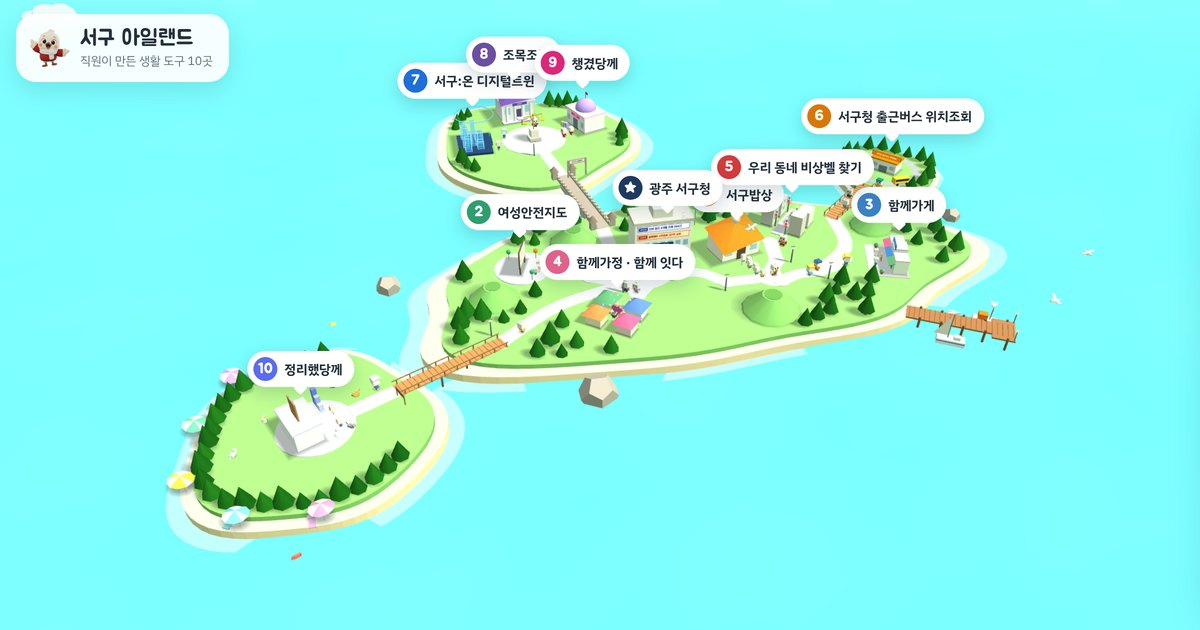
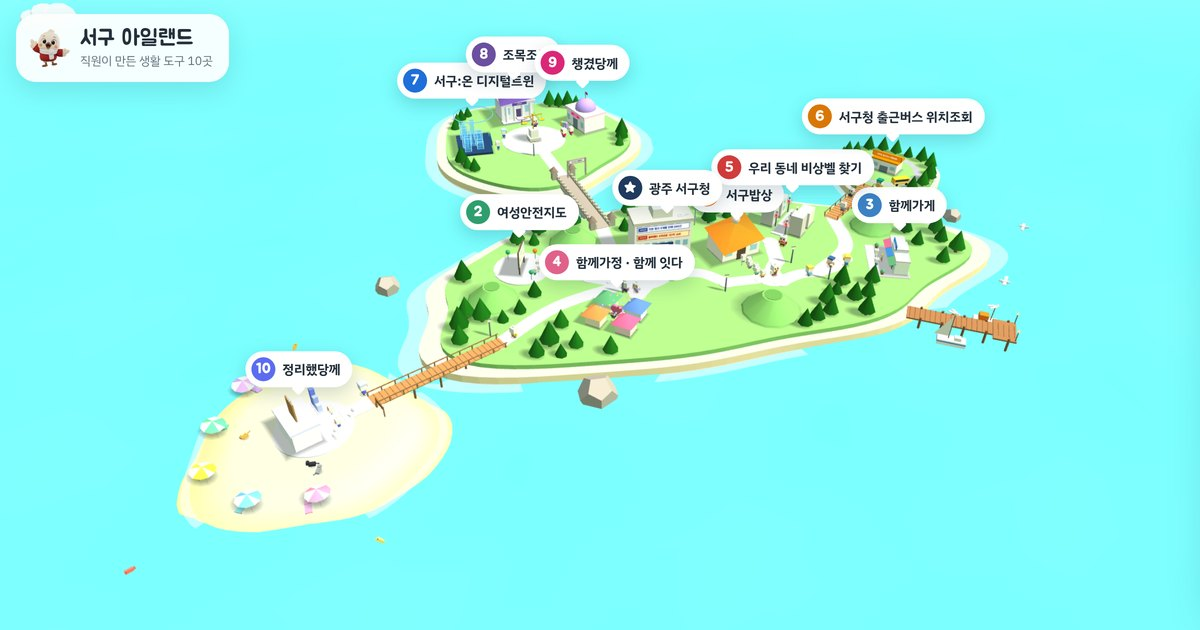
Island: 다비치 아일랜드 becomes a treeless sand beach that slopes gently into the sea (walk into the shallows, then swim), bridge now lands on the flat sand, parasols moved onto the beach; sky-view A/D keys no longer reversed
Claude-Session: https://claude.ai/code/session_01Rn2FnTmWsitNSVHCMP1upV

diff --git a/index.html b/index.html
@@ -347,14 +347,17 @@ function Rk(I,a){return I.r*(1+.05*Math.sin(3*a+I.s[0])+.03*Math.sin(5*a+I.s[1])
 function rhoI(I,x,z){const dx=x-I.x,dz=z-I.z;return Math.hypot(dx,dz)/Rk(I,Math.atan2(dz,dx));}
 function marchBridge(I,T){const dx=T.x-I.x,dz=T.z-I.z,L=Math.hypot(dx,dz),ux=dx/L,uz=dz/L;let s=0;while(rhoI(I,I.x+ux*s,I.z+uz*s)<.82)s+=.05;const B={x:I.x+ux*s,z:I.z+uz*s};while(rhoAt(I.x+ux*s,I.z+uz*s)>.8)s+=.05;return {A:{x:I.x+ux*s,z:I.z+uz*s},B,ry:Math.atan2(ux,uz)};}
 const JB=marchBridge(JC,{x:-9,z:-8}),JRY=JB.ry;// 저스티스 아일랜드의 앞쪽(다리 쪽) 방향
-const DB=marchBridge(DC,{x:-22,z:8});
+/* 다비치 아일랜드는 절벽 없는 모래 해수욕장: 가운데(0.6R까지) 평평하고, 바다 쪽으로 완만하게 내려가 물에 잠김 */
+function beachH(ri){if(ri<=.6)return .9;if(ri<=1.02){const u=(ri-.6)/.42,s=u*u*(3-2*u);return .9-s*1.65;}const u=Math.min(1,(ri-1.02)/.45),s=u*u*(3-2*u);return -.75+(SEABED-.1+.75)*s;}
+function marchBridgeR(I,T,thr){const dx=T.x-I.x,dz=T.z-I.z,L=Math.hypot(dx,dz),ux=dx/L,uz=dz/L;let s=0;while(rhoI(I,I.x+ux*s,I.z+uz*s)<thr)s+=.05;const B={x:I.x+ux*s,z:I.z+uz*s};while(rhoAt(I.x+ux*s,I.z+uz*s)>.8)s+=.05;return {A:{x:I.x+ux*s,z:I.z+uz*s},B,ry:Math.atan2(ux,uz)};}
+const DB=marchBridgeR(DC,{x:-22,z:8},.6);// 다리는 평평한 모래 위에서 시작
 const BRIDGES=[{A:{x:20.4,z:-8.3},B:{x:28.1,z:-14.8},stone:false},{A:JB.A,B:JB.B,stone:true},{A:DB.A,B:DB.B,stone:false}];
 function jl(lx,lz,lry,reach){const c=Math.cos(JRY),s=Math.sin(JRY);return [JC.x+lx*c+lz*s,JC.z-lx*s+lz*c,lry+JRY,reach,1.3];}// 섬 기준 좌표 → 지도 좌표
 /* ---------- 배치: 십자 모양 대신 섬 곳곳에 흩어진 건물과 구불구불한 길 ---------- */
 const HX=-4,HZ=-3;// 광주 서구청(가운데에서 살짝 서쪽)
 // x, z, 건물 앞쪽 방향, 앞쪽 길이 닿는 거리
 const LAYOUT={bapsang:[5,-3,.25,6.6],safety:[-21,-4,1.25,5.4],store:[23,3,-1.9,5.4],family:[-12,8,2.46,5.4],bell:[14,-8,-.75,5.4],bus:[33,-19,-.869,5.8],
-  seoguon:jl(-8.6,-1.6,1.39,4.4),jomok:jl(0,-8.6,0,4.4),chaeng:jl(8.6,-1.6,-1.39,4.4),jeongri:[DC.x,DC.z,DB.ry,7.4]};
+  seoguon:jl(-8.6,-1.6,1.39,4.4),jomok:jl(0,-8.6,0,4.4),chaeng:jl(8.6,-1.6,-1.39,4.4),jeongri:[DC.x,DC.z,DB.ry,6.2]};
 const ZONES=PROJECTS.map(p=>{const [x,z,ry,reach,sc]=LAYOUT[p.key],fx=Math.sin(ry),fz=Math.cos(ry);return {x,z,ry,fx,fz,ex:x+fx*reach,ez:z+fz*reach,sc:sc||1,p};});
 const PN={dA:[DB.A.x,DB.A.z],br0:[20.4,-8.3],jA:[JB.A.x,JB.A.z],jB:[JB.B.x,JB.B.z],jP:[JC.x+Math.sin(JRY)*4.6,JC.z+Math.cos(JRY)*4.6],hub:[HX,HZ+3.6],w1:[-9.5,1.4],w2:[-13.4,-.6],e1:[2.2,3.4],e2:[8.6,4.4],e3:[13.6,3.4],b1:[9.6,.2]};
 ZONES.forEach(z=>PN[z.p.key]=[z.ex,z.ez]);
@@ -384,7 +387,16 @@ LAMP_AT.forEach(([x,z])=>{const l=new THREE.Group();l.position.set(x,3.02,z);sce
 /* ---------- 작은 섬 땅 + 다리(정미니: 나무다리, 저스티스: 중세 돌다리) ---------- */
 function blobShape(I,f){const s=new THREE.Shape();for(let i=0;i<=72;i++){const a=i/72*Math.PI*2,r=Rk(I,a)*f,x=I.x+Math.cos(a)*r,z=I.z+Math.sin(a)*r;i?s.lineTo(x,-z):s.moveTo(x,-z);}return s;}
 function slabS(shape,depth,top,mat){const g=new THREE.ExtrudeGeometry(shape,{depth,bevelEnabled:false,curveSegments:1});g.rotateX(-Math.PI/2);const m=new THREE.Mesh(g,mat);m.position.y=top-depth;scene.add(m);return m;}
-ISLES.forEach(I=>{slabS(blobShape(I,1.12),.02,-.55,foam.material);slabS(blobShape(I,1),6.1,.35,M(0xf1dfae));slabS(blobShape(I,.9),1.2,.9,M(0x84c46a));});
+ISLES.forEach(I=>{if(I===DC)return;slabS(blobShape(I,1.12),.02,-.55,foam.material);slabS(blobShape(I,1),6.1,.35,M(0xf1dfae));slabS(blobShape(I,.9),1.2,.9,M(0x84c46a));});
+{const RS=[0,.3,.5,.6,.66,.72,.78,.84,.9,.96,1.02,1.1,1.2,1.32,1.47],NA=72,pos=[],col=[],idx=[],dry=new THREE.Color(0xf1dca6),wet=new THREE.Color(0xd8bd84),deep=new THREE.Color(0xc4ab7a),cc=new THREE.Color();
+  RS.forEach(ri=>{const h=beachH(ri);for(let k=0;k<NA;k++){const a=k/NA*Math.PI*2,R=Rk(DC,a)*ri;pos.push(DC.x+Math.cos(a)*R,h,DC.z+Math.sin(a)*R);
+    if(h>.2)cc.copy(dry);else if(h>-.9)cc.copy(dry).lerp(wet,(.2-h)/1.1);else cc.copy(wet).lerp(deep,Math.min(1,(-.9-h)/2));col.push(cc.r,cc.g,cc.b);}});
+  for(let i=0;i<RS.length-1;i++)for(let k=0;k<NA;k++){const a=i*NA+k,b=i*NA+(k+1)%NA,c=a+NA,d=b+NA;idx.push(a,b,c,b,d,c);}
+  const g=new THREE.BufferGeometry();g.setAttribute("position",new THREE.Float32BufferAttribute(pos,3));g.setAttribute("color",new THREE.Float32BufferAttribute(col,3));g.setIndex(idx);g.computeVertexNormals();
+  scene.add(new THREE.Mesh(g,new THREE.MeshLambertMaterial({vertexColors:true})));
+  // 물가 하얀 물결 띠
+  const sh=new THREE.Shape(),hole=new THREE.Path();for(let k=0;k<=72;k++){const a=k/72*Math.PI*2,R1=Rk(DC,a)*1.0,R0=Rk(DC,a)*.925;k?sh.lineTo(DC.x+Math.cos(a)*R1,-(DC.z+Math.sin(a)*R1)):sh.moveTo(DC.x+Math.cos(a)*R1,-(DC.z+Math.sin(a)*R1));k?hole.lineTo(DC.x+Math.cos(a)*R0,-(DC.z+Math.sin(a)*R0)):hole.moveTo(DC.x+Math.cos(a)*R0,-(DC.z+Math.sin(a)*R0));}
+  sh.holes.push(hole);const fg=new THREE.ShapeGeometry(sh,1);fg.rotateX(-Math.PI/2);const fm=new THREE.Mesh(fg,foam.material);fm.position.y=SEA_Y+.03;scene.add(fm);}
 // 저스티스 아일랜드 가운데 돌 광장
 cyl(4.8,4.8,.1,0xd8d2c6,JC.x,.9,JC.z,null,28);
 function bridgeDist(Br,x,z){const ax=Br.B.x-Br.A.x,az=Br.B.z-Br.A.z,L2=ax*ax+az*az,t=clamp(((x-Br.A.x)*ax+(z-Br.A.z)*az)/L2,0,1),px=Br.A.x+ax*t,pz=Br.A.z+az*t;return {d:Math.hypot(x-px,z-pz),t,px,pz};}
@@ -618,7 +630,7 @@ function zoneChaeng(g){
 }
 /* ---------- zone 10: 정리했당께 (다비치 아일랜드: 설문 집계 사무소 + 지붕 위 큰 체크리스트 + 막대그래프) ---------- */
 function zoneJeongri(g){
-  cyl(3.8,3.8,.1,0xeceafc,0,.06,.3,g,24);box(1.8,.06,5.6,0xe9dcc0,0,.04,6.6,g);// 다리에서 건물까지 길
+  cyl(3.8,3.8,.1,0xeceafc,0,.06,.3,g,24);box(1.8,.06,4,0xe9dcc0,0,.04,5.1,g);// 다리에서 건물까지 길
   box(4.2,2.2,2.6,0xf6f5ff,0,1.1,-1,g);box(4.5,.2,2.9,0xd9dcfb,0,2.3,-1,g);
   box(.9,1.3,.06,0x4f5aa8,0,.65,.31,g);[-1.45,1.45].forEach(x=>win(g,x,1.15,.31,.75,.6));
   box(2.05,.46,.08,0x4453c9,0,1.78,.31,g);signPlate(g,"정리했당께","#5b6cf0",1.9,1.78,.36);
@@ -632,7 +644,7 @@ function zoneJeongri(g){
   [[-2.5,1.5],[-1.85,1.9]].forEach(([x,z],k)=>{for(let i=0;i<4-k;i++){const s=box(.66,.1,.5,i%2?0xfffdf5:0xffffff,x,.16+i*.1,z,g);s.rotation.y=(i%2?.18:-.1)+k*.3;}});
   // 섬 입구 표지판: 다비치 아일랜드
   const dTex=canvasTex(384,96,(x,w,h)=>{x.fillStyle="#eef0fd";x.fillRect(0,0,w,h);x.strokeStyle="#5b6cf0";x.lineWidth=8;x.strokeRect(4,4,w-8,h-8);x.fillStyle="#3f4bb8";x.font='bold 44px "Jua","IBM Plex Sans KR",sans-serif';x.textAlign="center";x.textBaseline="middle";x.fillText("다비치 아일랜드",w/2,h/2+3);});
-  [-2.32,-.68].forEach(x=>box(.09,1.27,.09,0x8a6440,x,.635,8.6,g));box(1.5,.42,.08,0x8a6440,-1.5,1.05,8.6,g);const ds=new THREE.Mesh(new THREE.PlaneGeometry(1.4,.35),new THREE.MeshBasicMaterial({map:dTex}));ds.position.set(-1.5,1.05,8.65);g.add(ds);
+  [-2.62,-.98].forEach(x=>box(.09,1.27,.09,0x8a6440,x,.635,6.4,g));box(1.5,.42,.08,0x8a6440,-1.8,1.05,6.4,g);const ds=new THREE.Mesh(new THREE.PlaneGeometry(1.4,.35),new THREE.MeshBasicMaterial({map:dTex}));ds.position.set(-1.8,1.05,6.45);g.add(ds);
   person(-1.2,2.3,g,0x5b6cf0);person(.9,2.5,g,0xffffff);
 }
 const glowTex=canvasTex(64,64,(x,w,h)=>{const r=x.createRadialGradient(32,32,2,32,32,32);r.addColorStop(0,"rgba(255,255,255,1)");r.addColorStop(1,"rgba(255,255,255,0)");x.fillStyle=r;x.fillRect(0,0,w,h);});
@@ -659,7 +671,7 @@ function clearSpot(x,z){if(rhoAt(x,z)>.88)return false;
 const TREE=[];
 for(let i=0;i<900&&TREE.length<110;i++){const a=rnd()*Math.PI*2,f=.5+Math.sqrt(rnd())*.38,k=coastK(a)*f,x=Math.cos(a)*IA*k,z=Math.sin(a)*IB*k;
   if(!clearSpot(x,z)||TREE.some(([tx,tz])=>Math.hypot(tx-x,tz-z)<1.8))continue;TREE.push([x,z,.75+rnd()*.5]);}
-ISLES.forEach((I,ii)=>{const Br=BRIDGES[ii],front=Math.atan2(Br.A.z-I.z,Br.A.x-I.x),skip=ZONES.filter(z=>rhoI(I,z.x,z.z)<1&&Math.hypot(z.x-I.x,z.z-I.z)>2).map(z=>Math.atan2(z.z-I.z,z.x-I.x)),cnt=[14,36,26][ii];
+ISLES.forEach((I,ii)=>{const Br=BRIDGES[ii],front=Math.atan2(Br.A.z-I.z,Br.A.x-I.x),skip=ZONES.filter(z=>rhoI(I,z.x,z.z)<1&&Math.hypot(z.x-I.x,z.z-I.z)>2).map(z=>Math.atan2(z.z-I.z,z.x-I.x)),cnt=[14,36,0][ii];
   for(let k=0;k<cnt;k++){const a=front+1.05+k*(Math.PI*2-2.1)/(cnt-1);if(skip.some(b=>Math.abs(((a-b+Math.PI*3)%(Math.PI*2))-Math.PI)<.42))continue;const r=Rk(I,a)*.82;if(ii===1&&Math.hypot(I.x+Math.cos(a)*r-JC.sign.position.x,I.z+Math.sin(a)*r-JC.sign.position.z)<4)continue;TREE.push([I.x+Math.cos(a)*r,I.z+Math.sin(a)*r,.75+rnd()*.4]);}});// 작은 섬 둘레 나무
 const trunks=new THREE.InstancedMesh(new THREE.CylinderGeometry(0.15,0.2,1,6),M(0x7a5536),TREE.length);
 const leaves=new THREE.InstancedMesh(new THREE.ConeGeometry(0.9,2,7),M(0x4f9a4a),TREE.length);
@@ -724,7 +736,7 @@ function stepDolphins(dt){DOLPH.forEach(d=>{
 
 /* ---------- 걷기 세계: 땅 높이와 부딪힘 ---------- */
 function onPath(x,z){for(const p of PATH_PTS){const dx=x-p.x,dz=z-p.z;if(dx*dx+dz*dz<.81)return true;}return false;}
-function onBridge(x,z){if(rhoAt(x,z)<=.84||ISLES.some(I=>rhoI(I,x,z)<=.84))return false;return BRIDGES.some(Br=>{const b=bridgeDist(Br,x,z);return b.d<1.1&&b.t>.02&&b.t<.98;});}
+function onBridge(x,z){if(rhoAt(x,z)<=.84||ISLES.some(I=>rhoI(I,x,z)<=(I===DC?.58:.84)))return false;return BRIDGES.some(Br=>{const b=bridgeDist(Br,x,z);return b.d<1.1&&b.t>.02&&b.t<.98;});}
 function groundAt(x,z){if(Math.hypot(x-HX,z-HZ)<3.2)return 1.02;if(onBridge(x,z))return 1.01;return onPath(x,z)?.96:.9;}
 function walkable(x,z){if(rhoAt(x,z)<=.86||ISLES.some(I=>rhoI(I,x,z)<=.84))return true;return BRIDGES.some(Br=>{const b=bridgeDist(Br,x,z);return b.t>0&&b.t<1&&b.d<=.75;});}
 scene.updateMatrixWorld(true);
@@ -740,7 +752,7 @@ const LOCAL_OBST={
   seoguon:[[-1.3,-.6,1.3],[1.1,-.6,1.3],[0,1.1,.9],[-1.6,2.4,.3]],
   jomok:[[-1.1,-.6,1.4],[1.1,-.6,1.4],...[-1.5,-.5,.5,1.5].map(x=>[x,1.1,.25]),[0,2.2,.4],[1.3,2.6,.3]],
   chaeng:[[-1.1,-.4,1.4],[1.1,-.4,1.4],[-.95,2,.5],[1.2,2.4,.3]],
-  jeongri:[[-1.1,-1,1.4],[1.1,-1,1.4],[2.45,1.7,.75],[-2.2,1.7,.5],[-1.2,2.3,.3],[.9,2.5,.3],[-2.32,8.6,.15],[-.68,8.6,.15]],
+  jeongri:[[-1.1,-1,1.4],[1.1,-1,1.4],[2.45,1.7,.75],[-2.2,1.7,.5],[-1.2,2.3,.3],[.9,2.5,.3],[-2.62,6.4,.15],[-.98,6.4,.15]],
   bell:[[-2,-1.6,1.1,2.6],[-2,1.2,1.15,3.2],[2,-1,1.15,2.2],[2,1.8,1,2.8],[-.95,-2.6,.2],[.95,-.4,.2],[-.95,1.6,.2],[.95,3,.2],[.2,-1.4,.3]]};
 {const v=new THREE.Vector3();ZONES.forEach(z=>LOCAL_OBST[z.p.key].forEach(([x,y,r,tp])=>{v.set(x,0,y);z.group.localToWorld(v);const rt=r>.9?(tp!==undefined?tp:ROOF_TOP[z.p.key]):0;OBST.push({x:v.x,z:v.z,r:r*z.sc,h:r>.9?4.6*z.sc:0,top:rt?.9+rt*z.sc:0});}));}
 PIER.posts.forEach(q=>OBST.push({x:q.x,z:q.z,r:.16,h:0,top:q.y}));[boat,sail].forEach(b=>OBST.push({x:b.position.x,z:b.position.z,r:1.25,h:0,top:.08,sr:1.1}));
@@ -752,20 +764,20 @@ function collide(p,r,y,fly){y=y||0;
   {const dx=p.x-2,dz=p.z+12,d=Math.hypot(dx,dz),lim=80;if(d>lim){p.x=2+dx/d*lim;p.z=-12+dz/d*lim;}}return;// 바다로도 나갈 수 있음(헤엄·날기), 너무 멀리는 못 감
   if(!walkable(p.x,p.z)){const rh=rhoAt(p.x,p.z),c=[[p.x*.86/rh,p.z*.86/rh]];ISLES.forEach(I=>{const dx=p.x-I.x,dz=p.z-I.z,dd=Math.hypot(dx,dz)||1,rr=Rk(I,Math.atan2(dz,dx))*.84;c.push([I.x+dx/dd*Math.min(dd,rr),I.z+dz/dd*Math.min(dd,rr)]);});BRIDGES.forEach(Br=>{const b=bridgeDist(Br,p.x,p.z);if(b.t>0&&b.t<1){const k=.75/(b.d||1);c.push([b.px+(p.x-b.px)*k,b.pz+(p.z-b.pz)*k]);}});let best=c[0],bd=1e9;c.forEach(q=>{const d=Math.hypot(q[0]-p.x,q[1]-p.z);if(d<bd){bd=d;best=q;}});p.x=best[0];p.z=best[1];}
 }
-function landY(x,z){if(onBridge(x,z))return 1.01;if(onPier(x,z))return PIER.top;const r=rhoAt(x,z);if(r<=.93)return groundAt(x,z);for(const I of ISLES){const ri=rhoI(I,x,z);if(ri<=.9)return groundAt(x,z);if(ri<=1)return .35;}return r<=1?.35:null;}// 바다면 null
+function landY(x,z){if(onBridge(x,z))return 1.01;if(onPier(x,z))return PIER.top;const r=rhoAt(x,z);if(r<=.93)return groundAt(x,z);for(const I of ISLES){const ri=rhoI(I,x,z);if(I===DC){if(ri<=.6)return groundAt(x,z);if(ri<1.47){const h=beachH(ri);return h>SEA_Y-.5?h:null;}continue;}if(ri<=.9)return groundAt(x,z);if(ri<=1)return .35;}return r<=1?.35:null;}// 다비치는 얕은 물까지 걸어 들어갈 수 있음// 바다면 null
 function roofAt(x,z,y){let b=-1e9;for(const o of OBST){if(!o.top||y<o.top-.45||o.top<=b)continue;const sr=o.sr||o.r*.9;if((x-o.x)*(x-o.x)+(z-o.z)*(z-o.z)<sr*sr)b=o.top;}for(const q of RECTS)if(q.top&&y>=q.top-.45&&q.top>b&&x>q.x0&&x<q.x1&&z>q.z0&&z<q.z1)b=q.top;return b;}
 function camBlocked(x,y,z){for(const b of RECTS)if(y<b.h&&x>b.x0-.3&&x<b.x1+.3&&z>b.z0-.3&&z<b.z1+.3)return true;for(const o of OBST)if(y<o.h&&Math.hypot(x-o.x,z-o.z)<o.r+.3)return true;return false;}
 /* ---------- 다비치 아일랜드 해변: 파스텔 줄무늬 파라솔 + 선베드 ---------- */
 const PARASOL=[];
 {const front=Math.atan2(DB.B.z-DC.z,DB.B.x-DC.x),cols=[[0xff8fb3,0xfff7fa],[0x6fbaf5,0xf6fbff],[0xffcc3d,0xfffbea],[0x5fcf92,0xf3fff8],[0xa98bf5,0xfaf7ff]];
   const pole=[],top=[],beds=[];
-  [-1.25,-.62,0,.62,1.25].forEach((da,k)=>{const a=front+Math.PI+da,R=Rk(DC,a)*.955,x=DC.x+Math.cos(a)*R,z=DC.z+Math.sin(a)*R,tx=-Math.sin(a),tz=Math.cos(a);
-    PARASOL.push({x,z,a});pole.push([B,0xf4f1ea,T(x,.35+.9,z,.07,1.8,.07)]);
+  [-1.25,-.62,0,.62,1.25].forEach((da,k)=>{const a=front+Math.PI+da,R=Rk(DC,a)*.79,x=DC.x+Math.cos(a)*R,z=DC.z+Math.sin(a)*R,tx=-Math.sin(a),tz=Math.cos(a);
+    const by=beachH(.79);PARASOL.push({x,z,a});pole.push([B,0xf4f1ea,T(x,by+.9,z,.07,1.8,.07)]);
     const cone=new THREE.ConeGeometry(1.15,.5,10).toNonIndexed(),c=cols[k],n=cone.attributes.position.count,col=new Float32Array(n*3),ca=new THREE.Color(c[0]),cb=new THREE.Color(c[1]);
     for(let i=0;i<n;i++){const tri=(i/3|0),cc=(Math.floor(Math.atan2(cone.attributes.position.getZ(tri*3)+cone.attributes.position.getZ(tri*3+1)+cone.attributes.position.getZ(tri*3+2),cone.attributes.position.getX(tri*3)+cone.attributes.position.getX(tri*3+1)+cone.attributes.position.getX(tri*3+2))/(Math.PI/5)+10)%2)?cb:ca;col[i*3]=cc.r;col[i*3+1]=cc.g;col[i*3+2]=cc.b;}cone.setAttribute("color",new THREE.BufferAttribute(col,3));cone.deleteAttribute("uv");
-    const m=new THREE.Mesh(cone,HMAT);m.position.set(x,.35+1.95,z);m.rotation.z=.12*Math.cos(a);m.rotation.x=-.12*Math.sin(a);scene.add(m);
+    const m=new THREE.Mesh(cone,HMAT);m.position.set(x,by+1.95,z);m.rotation.z=.12*Math.cos(a);m.rotation.x=-.12*Math.sin(a);scene.add(m);
     const bx=x+tx*1.05,bz=z+tz*1.05,yaw=Math.atan2(Math.cos(a),Math.sin(a));// 선베드: 바다를 보고 누움
-    const M4=new THREE.Matrix4().compose(new THREE.Vector3(bx,.35,bz),new THREE.Quaternion().setFromAxisAngle(new THREE.Vector3(0,1,0),yaw),new THREE.Vector3(1,1,1));
+    const M4=new THREE.Matrix4().compose(new THREE.Vector3(bx,by,bz),new THREE.Quaternion().setFromAxisAngle(new THREE.Vector3(0,1,0),yaw),new THREE.Vector3(1,1,1));
     [[0,.22,0,.6,.08,1.3,c[0]],[0,.38,-.5,.6,.08,.42,c[0]],[-.25,.1,.5,.06,.2,.06,0xb08350],[.25,.1,.5,.06,.2,.06,0xb08350],[-.25,.1,-.5,.06,.2,.06,0xb08350],[.25,.1,-.5,.06,.2,.06,0xb08350]].forEach(([lx,ly,lz,w,h,d,cc])=>beds.push([B,cc,M4.clone().multiply(T(lx,ly,lz,w,h,d))]));
     PARASOL[k].bed=[bx,bz];});
   scene.add(new THREE.Mesh(merged(pole),HMAT),new THREE.Mesh(merged(beds),HMAT));}
@@ -848,7 +860,7 @@ function makeCat(L){const g=new THREE.Group(),eye=L.eye||0x2a2a2a,ear=L.ear||L.c
   const bub=new THREE.Sprite(new THREE.SpriteMaterial({map:meowTex,transparent:true,depthWrite:false}));bub.scale.set(.7,.35,1);bub.position.y=1.05;bub.visible=false;g.add(bub);
   const sh=new THREE.Mesh(SHADOW_G,SHADOW_M);sh.rotation.x=-Math.PI/2;sh.position.y=.02;sh.scale.setScalar(.8);g.add(sh);
   scene.add(g);return {g,core,legA,legB,tail,bub};}
-function catSpotOk(x,z){if(rhoI(DC,x,z)>.72)return false;for(const o of OBST)if((x-o.x)*(x-o.x)+(z-o.z)*(z-o.z)<(o.r+.55)*(o.r+.55))return false;return true;}
+function catSpotOk(x,z){if(rhoI(DC,x,z)>.6)return false;for(const o of OBST)if((x-o.x)*(x-o.x)+(z-o.z)*(z-o.z)<(o.r+.55)*(o.r+.55))return false;return true;}
 function catSpot(fx,fz){for(let i=0;i<40;i++){const a=rnd()*Math.PI*2,r=Math.sqrt(rnd())*DC.r*.7,x=DC.x+Math.cos(a)*r,z=DC.z+Math.sin(a)*r;if(!catSpotOk(x,z))continue;
     if(fx!==undefined){let ok=true;for(let k=1;k<6;k++){const u=k/6;if(!catSpotOk(fx+(x-fx)*u,fz+(z-fz)*u)){ok=false;break;}}if(!ok)continue;}return [x,z];}return null;}
 const CATS=CAT_LOOKS.map((L,i)=>{const m=makeCat(L),p=catSpot()||[DC.x+2,DC.z+2];return Object.assign(m,{x:p[0],z:p[1],yaw:rnd()*6,mode:i%2?"sit":"walk",t:2+rnd()*6,ph:rnd()*6,met:false,bubT:0,tx:p[0],tz:p[1]});});
@@ -1100,7 +1112,7 @@ function jumpPress(){if(!walking||talkNpc>=0||!$("guide").hidden)return;
 function land(){P.air=P.fly=false;player.air=player.fly=false;if(P.swim){P.swim=false;setDiver(false);}P.vy=0;player.land=1;jumpLabel();}
 function stepJump(dt){const hold=jumpHeld||keys.Space,fl=floorAt(P.x,P.z,P.y);
   if(P.swim){if(fl!==null){P.y=fl;land();return;}// 해변에 닿으면 물 밖으로
-    P.vy+=((hold?2.4:-.55)-P.vy)*Math.min(1,dt*3);P.y=clamp(P.y+P.vy*dt,SEABED+.05,SEA_Y-.75);return;}
+    P.vy+=((hold?2.4:-.55)-P.vy)*Math.min(1,dt*3);{const ri=rhoI(DC,P.x,P.z),fl=ri<1.47?beachH(ri)+.2:SEABED+.05;P.y=clamp(P.y+P.vy*dt,Math.min(fl,SEA_Y-.75),SEA_Y-.75);}return;}// 해수욕장 바닥 아래로는 안 내려감
   if(P.fly){P.vy+=((hold?4.6:-1.7)-P.vy)*Math.min(1,dt*4);P.y=Math.min(24,P.y+P.vy*dt);if(fl===null){if(P.y<=SEA_Y)enterWater();}else if(P.y<=fl){P.y=fl;land();}return;}
   if(P.air||fl===null){P.air=true;player.air=true;P.vy-=20*dt;P.y+=P.vy*dt;if(fl===null){if(P.y<=SEA_Y)enterWater();}else if(P.y<=fl){P.y=fl;land();}return;}
   if(fl<P.y-.25){P.air=true;player.air=true;P.vy=0;}else P.y=fl;}
@@ -1250,7 +1262,7 @@ function frame(t){
   if(INTRO.on)stepIntro(dt);
   else if(walking){updatePlayer(dt);updateWalkCam(dt);}
   else{const kx=(keys.KeyD||keys.ArrowRight?1:0)-(keys.KeyA||keys.ArrowLeft?1:0),ky=(keys.KeyS||keys.ArrowDown?1:0)-(keys.KeyW||keys.ArrowUp?1:0);
-    if((kx||ky)&&focus<0){const sp=dt*innerHeight*.5;panBy(kx*sp,-ky*sp);moving=true;}// 하늘에서 WASD·화살표로 옮기기
+    if((kx||ky)&&focus<0){const sp=dt*innerHeight*.5;panBy(-kx*sp,-ky*sp);moving=true;}// 하늘에서 WASD·화살표로 옮기기
     const k=dragging||pointers.size>1?0.35:0.09;
     for(const key of ["tx","ty","tz","dist","az","el","ox","oy"]){const d=goal[key]-rig[key];if(Math.abs(d)>1e-4){rig[key]+=d*k;moving=true;}else rig[key]=goal[key];}
     placeCamera();}

diff --git a/src/template.html b/src/template.html
@@ -330,14 +330,17 @@ function Rk(I,a){return I.r*(1+.05*Math.sin(3*a+I.s[0])+.03*Math.sin(5*a+I.s[1])
 function rhoI(I,x,z){const dx=x-I.x,dz=z-I.z;return Math.hypot(dx,dz)/Rk(I,Math.atan2(dz,dx));}
 function marchBridge(I,T){const dx=T.x-I.x,dz=T.z-I.z,L=Math.hypot(dx,dz),ux=dx/L,uz=dz/L;let s=0;while(rhoI(I,I.x+ux*s,I.z+uz*s)<.82)s+=.05;const B={x:I.x+ux*s,z:I.z+uz*s};while(rhoAt(I.x+ux*s,I.z+uz*s)>.8)s+=.05;return {A:{x:I.x+ux*s,z:I.z+uz*s},B,ry:Math.atan2(ux,uz)};}
 const JB=marchBridge(JC,{x:-9,z:-8}),JRY=JB.ry;// 저스티스 아일랜드의 앞쪽(다리 쪽) 방향
-const DB=marchBridge(DC,{x:-22,z:8});
+/* 다비치 아일랜드는 절벽 없는 모래 해수욕장: 가운데(0.6R까지) 평평하고, 바다 쪽으로 완만하게 내려가 물에 잠김 */
+function beachH(ri){if(ri<=.6)return .9;if(ri<=1.02){const u=(ri-.6)/.42,s=u*u*(3-2*u);return .9-s*1.65;}const u=Math.min(1,(ri-1.02)/.45),s=u*u*(3-2*u);return -.75+(SEABED-.1+.75)*s;}
+function marchBridgeR(I,T,thr){const dx=T.x-I.x,dz=T.z-I.z,L=Math.hypot(dx,dz),ux=dx/L,uz=dz/L;let s=0;while(rhoI(I,I.x+ux*s,I.z+uz*s)<thr)s+=.05;const B={x:I.x+ux*s,z:I.z+uz*s};while(rhoAt(I.x+ux*s,I.z+uz*s)>.8)s+=.05;return {A:{x:I.x+ux*s,z:I.z+uz*s},B,ry:Math.atan2(ux,uz)};}
+const DB=marchBridgeR(DC,{x:-22,z:8},.6);// 다리는 평평한 모래 위에서 시작
 const BRIDGES=[{A:{x:20.4,z:-8.3},B:{x:28.1,z:-14.8},stone:false},{A:JB.A,B:JB.B,stone:true},{A:DB.A,B:DB.B,stone:false}];
 function jl(lx,lz,lry,reach){const c=Math.cos(JRY),s=Math.sin(JRY);return [JC.x+lx*c+lz*s,JC.z-lx*s+lz*c,lry+JRY,reach,1.3];}// 섬 기준 좌표 → 지도 좌표
 /* ---------- 배치: 십자 모양 대신 섬 곳곳에 흩어진 건물과 구불구불한 길 ---------- */
 const HX=-4,HZ=-3;// 광주 서구청(가운데에서 살짝 서쪽)
 // x, z, 건물 앞쪽 방향, 앞쪽 길이 닿는 거리
 const LAYOUT={bapsang:[5,-3,.25,6.6],safety:[-21,-4,1.25,5.4],store:[23,3,-1.9,5.4],family:[-12,8,2.46,5.4],bell:[14,-8,-.75,5.4],bus:[33,-19,-.869,5.8],
-  seoguon:jl(-8.6,-1.6,1.39,4.4),jomok:jl(0,-8.6,0,4.4),chaeng:jl(8.6,-1.6,-1.39,4.4),jeongri:[DC.x,DC.z,DB.ry,7.4]};
+  seoguon:jl(-8.6,-1.6,1.39,4.4),jomok:jl(0,-8.6,0,4.4),chaeng:jl(8.6,-1.6,-1.39,4.4),jeongri:[DC.x,DC.z,DB.ry,6.2]};
 const ZONES=PROJECTS.map(p=>{const [x,z,ry,reach,sc]=LAYOUT[p.key],fx=Math.sin(ry),fz=Math.cos(ry);return {x,z,ry,fx,fz,ex:x+fx*reach,ez:z+fz*reach,sc:sc||1,p};});
 const PN={dA:[DB.A.x,DB.A.z],br0:[20.4,-8.3],jA:[JB.A.x,JB.A.z],jB:[JB.B.x,JB.B.z],jP:[JC.x+Math.sin(JRY)*4.6,JC.z+Math.cos(JRY)*4.6],hub:[HX,HZ+3.6],w1:[-9.5,1.4],w2:[-13.4,-.6],e1:[2.2,3.4],e2:[8.6,4.4],e3:[13.6,3.4],b1:[9.6,.2]};
 ZONES.forEach(z=>PN[z.p.key]=[z.ex,z.ez]);
@@ -367,7 +370,16 @@ LAMP_AT.forEach(([x,z])=>{const l=new THREE.Group();l.position.set(x,3.02,z);sce
 /* ---------- 작은 섬 땅 + 다리(정미니: 나무다리, 저스티스: 중세 돌다리) ---------- */
 function blobShape(I,f){const s=new THREE.Shape();for(let i=0;i<=72;i++){const a=i/72*Math.PI*2,r=Rk(I,a)*f,x=I.x+Math.cos(a)*r,z=I.z+Math.sin(a)*r;i?s.lineTo(x,-z):s.moveTo(x,-z);}return s;}
 function slabS(shape,depth,top,mat){const g=new THREE.ExtrudeGeometry(shape,{depth,bevelEnabled:false,curveSegments:1});g.rotateX(-Math.PI/2);const m=new THREE.Mesh(g,mat);m.position.y=top-depth;scene.add(m);return m;}
-ISLES.forEach(I=>{slabS(blobShape(I,1.12),.02,-.55,foam.material);slabS(blobShape(I,1),6.1,.35,M(0xf1dfae));slabS(blobShape(I,.9),1.2,.9,M(0x84c46a));});
+ISLES.forEach(I=>{if(I===DC)return;slabS(blobShape(I,1.12),.02,-.55,foam.material);slabS(blobShape(I,1),6.1,.35,M(0xf1dfae));slabS(blobShape(I,.9),1.2,.9,M(0x84c46a));});
+{const RS=[0,.3,.5,.6,.66,.72,.78,.84,.9,.96,1.02,1.1,1.2,1.32,1.47],NA=72,pos=[],col=[],idx=[],dry=new THREE.Color(0xf1dca6),wet=new THREE.Color(0xd8bd84),deep=new THREE.Color(0xc4ab7a),cc=new THREE.Color();
+  RS.forEach(ri=>{const h=beachH(ri);for(let k=0;k<NA;k++){const a=k/NA*Math.PI*2,R=Rk(DC,a)*ri;pos.push(DC.x+Math.cos(a)*R,h,DC.z+Math.sin(a)*R);
+    if(h>.2)cc.copy(dry);else if(h>-.9)cc.copy(dry).lerp(wet,(.2-h)/1.1);else cc.copy(wet).lerp(deep,Math.min(1,(-.9-h)/2));col.push(cc.r,cc.g,cc.b);}});
+  for(let i=0;i<RS.length-1;i++)for(let k=0;k<NA;k++){const a=i*NA+k,b=i*NA+(k+1)%NA,c=a+NA,d=b+NA;idx.push(a,b,c,b,d,c);}
+  const g=new THREE.BufferGeometry();g.setAttribute("position",new THREE.Float32BufferAttribute(pos,3));g.setAttribute("color",new THREE.Float32BufferAttribute(col,3));g.setIndex(idx);g.computeVertexNormals();
+  scene.add(new THREE.Mesh(g,new THREE.MeshLambertMaterial({vertexColors:true})));
+  // 물가 하얀 물결 띠
+  const sh=new THREE.Shape(),hole=new THREE.Path();for(let k=0;k<=72;k++){const a=k/72*Math.PI*2,R1=Rk(DC,a)*1.0,R0=Rk(DC,a)*.925;k?sh.lineTo(DC.x+Math.cos(a)*R1,-(DC.z+Math.sin(a)*R1)):sh.moveTo(DC.x+Math.cos(a)*R1,-(DC.z+Math.sin(a)*R1));k?hole.lineTo(DC.x+Math.cos(a)*R0,-(DC.z+Math.sin(a)*R0)):hole.moveTo(DC.x+Math.cos(a)*R0,-(DC.z+Math.sin(a)*R0));}
+  sh.holes.push(hole);const fg=new THREE.ShapeGeometry(sh,1);fg.rotateX(-Math.PI/2);const fm=new THREE.Mesh(fg,foam.material);fm.position.y=SEA_Y+.03;scene.add(fm);}
 // 저스티스 아일랜드 가운데 돌 광장
 cyl(4.8,4.8,.1,0xd8d2c6,JC.x,.9,JC.z,null,28);
 function bridgeDist(Br,x,z){const ax=Br.B.x-Br.A.x,az=Br.B.z-Br.A.z,L2=ax*ax+az*az,t=clamp(((x-Br.A.x)*ax+(z-Br.A.z)*az)/L2,0,1),px=Br.A.x+ax*t,pz=Br.A.z+az*t;return {d:Math.hypot(x-px,z-pz),t,px,pz};}
@@ -601,7 +613,7 @@ function zoneChaeng(g){
 }
 /* ---------- zone 10: 정리했당께 (다비치 아일랜드: 설문 집계 사무소 + 지붕 위 큰 체크리스트 + 막대그래프) ---------- */
 function zoneJeongri(g){
-  cyl(3.8,3.8,.1,0xeceafc,0,.06,.3,g,24);box(1.8,.06,5.6,0xe9dcc0,0,.04,6.6,g);// 다리에서 건물까지 길
+  cyl(3.8,3.8,.1,0xeceafc,0,.06,.3,g,24);box(1.8,.06,4,0xe9dcc0,0,.04,5.1,g);// 다리에서 건물까지 길
   box(4.2,2.2,2.6,0xf6f5ff,0,1.1,-1,g);box(4.5,.2,2.9,0xd9dcfb,0,2.3,-1,g);
   box(.9,1.3,.06,0x4f5aa8,0,.65,.31,g);[-1.45,1.45].forEach(x=>win(g,x,1.15,.31,.75,.6));
   box(2.05,.46,.08,0x4453c9,0,1.78,.31,g);signPlate(g,"정리했당께","#5b6cf0",1.9,1.78,.36);
@@ -615,7 +627,7 @@ function zoneJeongri(g){
   [[-2.5,1.5],[-1.85,1.9]].forEach(([x,z],k)=>{for(let i=0;i<4-k;i++){const s=box(.66,.1,.5,i%2?0xfffdf5:0xffffff,x,.16+i*.1,z,g);s.rotation.y=(i%2?.18:-.1)+k*.3;}});
   // 섬 입구 표지판: 다비치 아일랜드
   const dTex=canvasTex(384,96,(x,w,h)=>{x.fillStyle="#eef0fd";x.fillRect(0,0,w,h);x.strokeStyle="#5b6cf0";x.lineWidth=8;x.strokeRect(4,4,w-8,h-8);x.fillStyle="#3f4bb8";x.font='bold 44px "Jua","IBM Plex Sans KR",sans-serif';x.textAlign="center";x.textBaseline="middle";x.fillText("다비치 아일랜드",w/2,h/2+3);});
-  [-2.32,-.68].forEach(x=>box(.09,1.27,.09,0x8a6440,x,.635,8.6,g));box(1.5,.42,.08,0x8a6440,-1.5,1.05,8.6,g);const ds=new THREE.Mesh(new THREE.PlaneGeometry(1.4,.35),new THREE.MeshBasicMaterial({map:dTex}));ds.position.set(-1.5,1.05,8.65);g.add(ds);
+  [-2.62,-.98].forEach(x=>box(.09,1.27,.09,0x8a6440,x,.635,6.4,g));box(1.5,.42,.08,0x8a6440,-1.8,1.05,6.4,g);const ds=new THREE.Mesh(new THREE.PlaneGeometry(1.4,.35),new THREE.MeshBasicMaterial({map:dTex}));ds.position.set(-1.8,1.05,6.45);g.add(ds);
   person(-1.2,2.3,g,0x5b6cf0);person(.9,2.5,g,0xffffff);
 }
 const glowTex=canvasTex(64,64,(x,w,h)=>{const r=x.createRadialGradient(32,32,2,32,32,32);r.addColorStop(0,"rgba(255,255,255,1)");r.addColorStop(1,"rgba(255,255,255,0)");x.fillStyle=r;x.fillRect(0,0,w,h);});
@@ -642,7 +654,7 @@ function clearSpot(x,z){if(rhoAt(x,z)>.88)return false;
 const TREE=[];
 for(let i=0;i<900&&TREE.length<110;i++){const a=rnd()*Math.PI*2,f=.5+Math.sqrt(rnd())*.38,k=coastK(a)*f,x=Math.cos(a)*IA*k,z=Math.sin(a)*IB*k;
   if(!clearSpot(x,z)||TREE.some(([tx,tz])=>Math.hypot(tx-x,tz-z)<1.8))continue;TREE.push([x,z,.75+rnd()*.5]);}
-ISLES.forEach((I,ii)=>{const Br=BRIDGES[ii],front=Math.atan2(Br.A.z-I.z,Br.A.x-I.x),skip=ZONES.filter(z=>rhoI(I,z.x,z.z)<1&&Math.hypot(z.x-I.x,z.z-I.z)>2).map(z=>Math.atan2(z.z-I.z,z.x-I.x)),cnt=[14,36,26][ii];
+ISLES.forEach((I,ii)=>{const Br=BRIDGES[ii],front=Math.atan2(Br.A.z-I.z,Br.A.x-I.x),skip=ZONES.filter(z=>rhoI(I,z.x,z.z)<1&&Math.hypot(z.x-I.x,z.z-I.z)>2).map(z=>Math.atan2(z.z-I.z,z.x-I.x)),cnt=[14,36,0][ii];
   for(let k=0;k<cnt;k++){const a=front+1.05+k*(Math.PI*2-2.1)/(cnt-1);if(skip.some(b=>Math.abs(((a-b+Math.PI*3)%(Math.PI*2))-Math.PI)<.42))continue;const r=Rk(I,a)*.82;if(ii===1&&Math.hypot(I.x+Math.cos(a)*r-JC.sign.position.x,I.z+Math.sin(a)*r-JC.sign.position.z)<4)continue;TREE.push([I.x+Math.cos(a)*r,I.z+Math.sin(a)*r,.75+rnd()*.4]);}});// 작은 섬 둘레 나무
 const trunks=new THREE.InstancedMesh(new THREE.CylinderGeometry(0.15,0.2,1,6),M(0x7a5536),TREE.length);
 const leaves=new THREE.InstancedMesh(new THREE.ConeGeometry(0.9,2,7),M(0x4f9a4a),TREE.length);
@@ -707,7 +719,7 @@ function stepDolphins(dt){DOLPH.forEach(d=>{
 
 /* ---------- 걷기 세계: 땅 높이와 부딪힘 ---------- */
 function onPath(x,z){for(const p of PATH_PTS){const dx=x-p.x,dz=z-p.z;if(dx*dx+dz*dz<.81)return true;}return false;}
-function onBridge(x,z){if(rhoAt(x,z)<=.84||ISLES.some(I=>rhoI(I,x,z)<=.84))return false;return BRIDGES.some(Br=>{const b=bridgeDist(Br,x,z);return b.d<1.1&&b.t>.02&&b.t<.98;});}
+function onBridge(x,z){if(rhoAt(x,z)<=.84||ISLES.some(I=>rhoI(I,x,z)<=(I===DC?.58:.84)))return false;return BRIDGES.some(Br=>{const b=bridgeDist(Br,x,z);return b.d<1.1&&b.t>.02&&b.t<.98;});}
 function groundAt(x,z){if(Math.hypot(x-HX,z-HZ)<3.2)return 1.02;if(onBridge(x,z))return 1.01;return onPath(x,z)?.96:.9;}
 function walkable(x,z){if(rhoAt(x,z)<=.86||ISLES.some(I=>rhoI(I,x,z)<=.84))return true;return BRIDGES.some(Br=>{const b=bridgeDist(Br,x,z);return b.t>0&&b.t<1&&b.d<=.75;});}
 scene.updateMatrixWorld(true);
@@ -723,7 +735,7 @@ const LOCAL_OBST={
   seoguon:[[-1.3,-.6,1.3],[1.1,-.6,1.3],[0,1.1,.9],[-1.6,2.4,.3]],
   jomok:[[-1.1,-.6,1.4],[1.1,-.6,1.4],...[-1.5,-.5,.5,1.5].map(x=>[x,1.1,.25]),[0,2.2,.4],[1.3,2.6,.3]],
   chaeng:[[-1.1,-.4,1.4],[1.1,-.4,1.4],[-.95,2,.5],[1.2,2.4,.3]],
-  jeongri:[[-1.1,-1,1.4],[1.1,-1,1.4],[2.45,1.7,.75],[-2.2,1.7,.5],[-1.2,2.3,.3],[.9,2.5,.3],[-2.32,8.6,.15],[-.68,8.6,.15]],
+  jeongri:[[-1.1,-1,1.4],[1.1,-1,1.4],[2.45,1.7,.75],[-2.2,1.7,.5],[-1.2,2.3,.3],[.9,2.5,.3],[-2.62,6.4,.15],[-.98,6.4,.15]],
   bell:[[-2,-1.6,1.1,2.6],[-2,1.2,1.15,3.2],[2,-1,1.15,2.2],[2,1.8,1,2.8],[-.95,-2.6,.2],[.95,-.4,.2],[-.95,1.6,.2],[.95,3,.2],[.2,-1.4,.3]]};
 {const v=new THREE.Vector3();ZONES.forEach(z=>LOCAL_OBST[z.p.key].forEach(([x,y,r,tp])=>{v.set(x,0,y);z.group.localToWorld(v);const rt=r>.9?(tp!==undefined?tp:ROOF_TOP[z.p.key]):0;OBST.push({x:v.x,z:v.z,r:r*z.sc,h:r>.9?4.6*z.sc:0,top:rt?.9+rt*z.sc:0});}));}
 PIER.posts.forEach(q=>OBST.push({x:q.x,z:q.z,r:.16,h:0,top:q.y}));[boat,sail].forEach(b=>OBST.push({x:b.position.x,z:b.position.z,r:1.25,h:0,top:.08,sr:1.1}));
@@ -735,20 +747,20 @@ function collide(p,r,y,fly){y=y||0;
   {const dx=p.x-2,dz=p.z+12,d=Math.hypot(dx,dz),lim=80;if(d>lim){p.x=2+dx/d*lim;p.z=-12+dz/d*lim;}}return;// 바다로도 나갈 수 있음(헤엄·날기), 너무 멀리는 못 감
   if(!walkable(p.x,p.z)){const rh=rhoAt(p.x,p.z),c=[[p.x*.86/rh,p.z*.86/rh]];ISLES.forEach(I=>{const dx=p.x-I.x,dz=p.z-I.z,dd=Math.hypot(dx,dz)||1,rr=Rk(I,Math.atan2(dz,dx))*.84;c.push([I.x+dx/dd*Math.min(dd,rr),I.z+dz/dd*Math.min(dd,rr)]);});BRIDGES.forEach(Br=>{const b=bridgeDist(Br,p.x,p.z);if(b.t>0&&b.t<1){const k=.75/(b.d||1);c.push([b.px+(p.x-b.px)*k,b.pz+(p.z-b.pz)*k]);}});let best=c[0],bd=1e9;c.forEach(q=>{const d=Math.hypot(q[0]-p.x,q[1]-p.z);if(d<bd){bd=d;best=q;}});p.x=best[0];p.z=best[1];}
 }
-function landY(x,z){if(onBridge(x,z))return 1.01;if(onPier(x,z))return PIER.top;const r=rhoAt(x,z);if(r<=.93)return groundAt(x,z);for(const I of ISLES){const ri=rhoI(I,x,z);if(ri<=.9)return groundAt(x,z);if(ri<=1)return .35;}return r<=1?.35:null;}// 바다면 null
+function landY(x,z){if(onBridge(x,z))return 1.01;if(onPier(x,z))return PIER.top;const r=rhoAt(x,z);if(r<=.93)return groundAt(x,z);for(const I of ISLES){const ri=rhoI(I,x,z);if(I===DC){if(ri<=.6)return groundAt(x,z);if(ri<1.47){const h=beachH(ri);return h>SEA_Y-.5?h:null;}continue;}if(ri<=.9)return groundAt(x,z);if(ri<=1)return .35;}return r<=1?.35:null;}// 다비치는 얕은 물까지 걸어 들어갈 수 있음// 바다면 null
 function roofAt(x,z,y){let b=-1e9;for(const o of OBST){if(!o.top||y<o.top-.45||o.top<=b)continue;const sr=o.sr||o.r*.9;if((x-o.x)*(x-o.x)+(z-o.z)*(z-o.z)<sr*sr)b=o.top;}for(const q of RECTS)if(q.top&&y>=q.top-.45&&q.top>b&&x>q.x0&&x<q.x1&&z>q.z0&&z<q.z1)b=q.top;return b;}
 function camBlocked(x,y,z){for(const b of RECTS)if(y<b.h&&x>b.x0-.3&&x<b.x1+.3&&z>b.z0-.3&&z<b.z1+.3)return true;for(const o of OBST)if(y<o.h&&Math.hypot(x-o.x,z-o.z)<o.r+.3)return true;return false;}
 /* ---------- 다비치 아일랜드 해변: 파스텔 줄무늬 파라솔 + 선베드 ---------- */
 const PARASOL=[];
 {const front=Math.atan2(DB.B.z-DC.z,DB.B.x-DC.x),cols=[[0xff8fb3,0xfff7fa],[0x6fbaf5,0xf6fbff],[0xffcc3d,0xfffbea],[0x5fcf92,0xf3fff8],[0xa98bf5,0xfaf7ff]];
   const pole=[],top=[],beds=[];
-  [-1.25,-.62,0,.62,1.25].forEach((da,k)=>{const a=front+Math.PI+da,R=Rk(DC,a)*.955,x=DC.x+Math.cos(a)*R,z=DC.z+Math.sin(a)*R,tx=-Math.sin(a),tz=Math.cos(a);
-    PARASOL.push({x,z,a});pole.push([B,0xf4f1ea,T(x,.35+.9,z,.07,1.8,.07)]);
+  [-1.25,-.62,0,.62,1.25].forEach((da,k)=>{const a=front+Math.PI+da,R=Rk(DC,a)*.79,x=DC.x+Math.cos(a)*R,z=DC.z+Math.sin(a)*R,tx=-Math.sin(a),tz=Math.cos(a);
+    const by=beachH(.79);PARASOL.push({x,z,a});pole.push([B,0xf4f1ea,T(x,by+.9,z,.07,1.8,.07)]);
     const cone=new THREE.ConeGeometry(1.15,.5,10).toNonIndexed(),c=cols[k],n=cone.attributes.position.count,col=new Float32Array(n*3),ca=new THREE.Color(c[0]),cb=new THREE.Color(c[1]);
     for(let i=0;i<n;i++){const tri=(i/3|0),cc=(Math.floor(Math.atan2(cone.attributes.position.getZ(tri*3)+cone.attributes.position.getZ(tri*3+1)+cone.attributes.position.getZ(tri*3+2),cone.attributes.position.getX(tri*3)+cone.attributes.position.getX(tri*3+1)+cone.attributes.position.getX(tri*3+2))/(Math.PI/5)+10)%2)?cb:ca;col[i*3]=cc.r;col[i*3+1]=cc.g;col[i*3+2]=cc.b;}cone.setAttribute("color",new THREE.BufferAttribute(col,3));cone.deleteAttribute("uv");
-    const m=new THREE.Mesh(cone,HMAT);m.position.set(x,.35+1.95,z);m.rotation.z=.12*Math.cos(a);m.rotation.x=-.12*Math.sin(a);scene.add(m);
+    const m=new THREE.Mesh(cone,HMAT);m.position.set(x,by+1.95,z);m.rotation.z=.12*Math.cos(a);m.rotation.x=-.12*Math.sin(a);scene.add(m);
     const bx=x+tx*1.05,bz=z+tz*1.05,yaw=Math.atan2(Math.cos(a),Math.sin(a));// 선베드: 바다를 보고 누움
-    const M4=new THREE.Matrix4().compose(new THREE.Vector3(bx,.35,bz),new THREE.Quaternion().setFromAxisAngle(new THREE.Vector3(0,1,0),yaw),new THREE.Vector3(1,1,1));
+    const M4=new THREE.Matrix4().compose(new THREE.Vector3(bx,by,bz),new THREE.Quaternion().setFromAxisAngle(new THREE.Vector3(0,1,0),yaw),new THREE.Vector3(1,1,1));
     [[0,.22,0,.6,.08,1.3,c[0]],[0,.38,-.5,.6,.08,.42,c[0]],[-.25,.1,.5,.06,.2,.06,0xb08350],[.25,.1,.5,.06,.2,.06,0xb08350],[-.25,.1,-.5,.06,.2,.06,0xb08350],[.25,.1,-.5,.06,.2,.06,0xb08350]].forEach(([lx,ly,lz,w,h,d,cc])=>beds.push([B,cc,M4.clone().multiply(T(lx,ly,lz,w,h,d))]));
     PARASOL[k].bed=[bx,bz];});
   scene.add(new THREE.Mesh(merged(pole),HMAT),new THREE.Mesh(merged(beds),HMAT));}
@@ -831,7 +843,7 @@ function makeCat(L){const g=new THREE.Group(),eye=L.eye||0x2a2a2a,ear=L.ear||L.c
   const bub=new THREE.Sprite(new THREE.SpriteMaterial({map:meowTex,transparent:true,depthWrite:false}));bub.scale.set(.7,.35,1);bub.position.y=1.05;bub.visible=false;g.add(bub);
   const sh=new THREE.Mesh(SHADOW_G,SHADOW_M);sh.rotation.x=-Math.PI/2;sh.position.y=.02;sh.scale.setScalar(.8);g.add(sh);
   scene.add(g);return {g,core,legA,legB,tail,bub};}
-function catSpotOk(x,z){if(rhoI(DC,x,z)>.72)return false;for(const o of OBST)if((x-o.x)*(x-o.x)+(z-o.z)*(z-o.z)<(o.r+.55)*(o.r+.55))return false;return true;}
+function catSpotOk(x,z){if(rhoI(DC,x,z)>.6)return false;for(const o of OBST)if((x-o.x)*(x-o.x)+(z-o.z)*(z-o.z)<(o.r+.55)*(o.r+.55))return false;return true;}
 function catSpot(fx,fz){for(let i=0;i<40;i++){const a=rnd()*Math.PI*2,r=Math.sqrt(rnd())*DC.r*.7,x=DC.x+Math.cos(a)*r,z=DC.z+Math.sin(a)*r;if(!catSpotOk(x,z))continue;
     if(fx!==undefined){let ok=true;for(let k=1;k<6;k++){const u=k/6;if(!catSpotOk(fx+(x-fx)*u,fz+(z-fz)*u)){ok=false;break;}}if(!ok)continue;}return [x,z];}return null;}
 const CATS=CAT_LOOKS.map((L,i)=>{const m=makeCat(L),p=catSpot()||[DC.x+2,DC.z+2];return Object.assign(m,{x:p[0],z:p[1],yaw:rnd()*6,mode:i%2?"sit":"walk",t:2+rnd()*6,ph:rnd()*6,met:false,bubT:0,tx:p[0],tz:p[1]});});
@@ -1083,7 +1095,7 @@ function jumpPress(){if(!walking||talkNpc>=0||!$("guide").hidden)return;
 function land(){P.air=P.fly=false;player.air=player.fly=false;if(P.swim){P.swim=false;setDiver(false);}P.vy=0;player.land=1;jumpLabel();}
 function stepJump(dt){const hold=jumpHeld||keys.Space,fl=floorAt(P.x,P.z,P.y);
   if(P.swim){if(fl!==null){P.y=fl;land();return;}// 해변에 닿으면 물 밖으로
-    P.vy+=((hold?2.4:-.55)-P.vy)*Math.min(1,dt*3);P.y=clamp(P.y+P.vy*dt,SEABED+.05,SEA_Y-.75);return;}
+    P.vy+=((hold?2.4:-.55)-P.vy)*Math.min(1,dt*3);{const ri=rhoI(DC,P.x,P.z),fl=ri<1.47?beachH(ri)+.2:SEABED+.05;P.y=clamp(P.y+P.vy*dt,Math.min(fl,SEA_Y-.75),SEA_Y-.75);}return;}// 해수욕장 바닥 아래로는 안 내려감
   if(P.fly){P.vy+=((hold?4.6:-1.7)-P.vy)*Math.min(1,dt*4);P.y=Math.min(24,P.y+P.vy*dt);if(fl===null){if(P.y<=SEA_Y)enterWater();}else if(P.y<=fl){P.y=fl;land();}return;}
   if(P.air||fl===null){P.air=true;player.air=true;P.vy-=20*dt;P.y+=P.vy*dt;if(fl===null){if(P.y<=SEA_Y)enterWater();}else if(P.y<=fl){P.y=fl;land();}return;}
   if(fl<P.y-.25){P.air=true;player.air=true;P.vy=0;}else P.y=fl;}
@@ -1233,7 +1245,7 @@ function frame(t){
   if(INTRO.on)stepIntro(dt);
   else if(walking){updatePlayer(dt);updateWalkCam(dt);}
   else{const kx=(keys.KeyD||keys.ArrowRight?1:0)-(keys.KeyA||keys.ArrowLeft?1:0),ky=(keys.KeyS||keys.ArrowDown?1:0)-(keys.KeyW||keys.ArrowUp?1:0);
-    if((kx||ky)&&focus<0){const sp=dt*innerHeight*.5;panBy(kx*sp,-ky*sp);moving=true;}// 하늘에서 WASD·화살표로 옮기기
+    if((kx||ky)&&focus<0){const sp=dt*innerHeight*.5;panBy(-kx*sp,-ky*sp);moving=true;}// 하늘에서 WASD·화살표로 옮기기
     const k=dragging||pointers.size>1?0.35:0.09;
     for(const key of ["tx","ty","tz","dist","az","el","ox","oy"]){const d=goal[key]-rig[key];if(Math.abs(d)>1e-4){rig[key]+=d*k;moving=true;}else rig[key]=goal[key];}
     placeCamera();}
